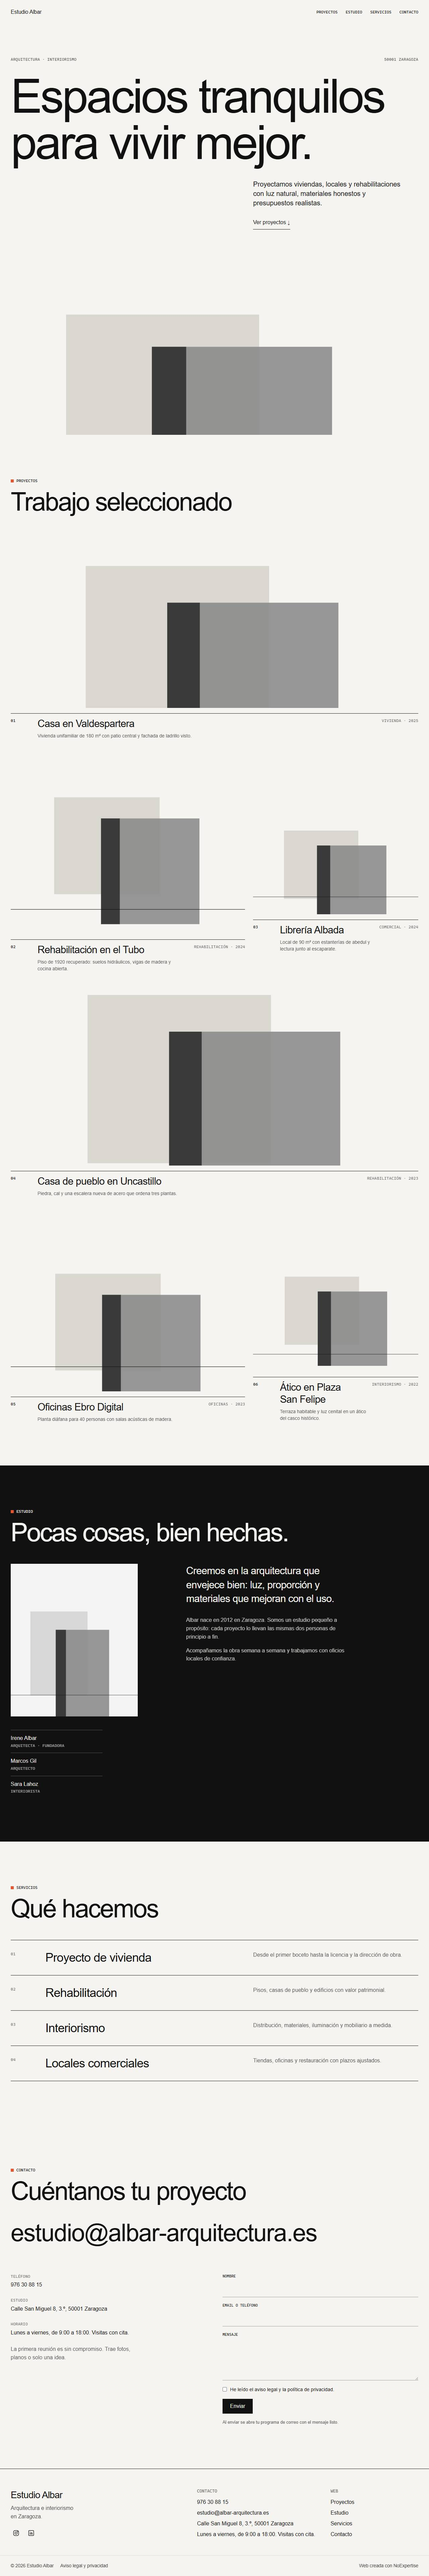
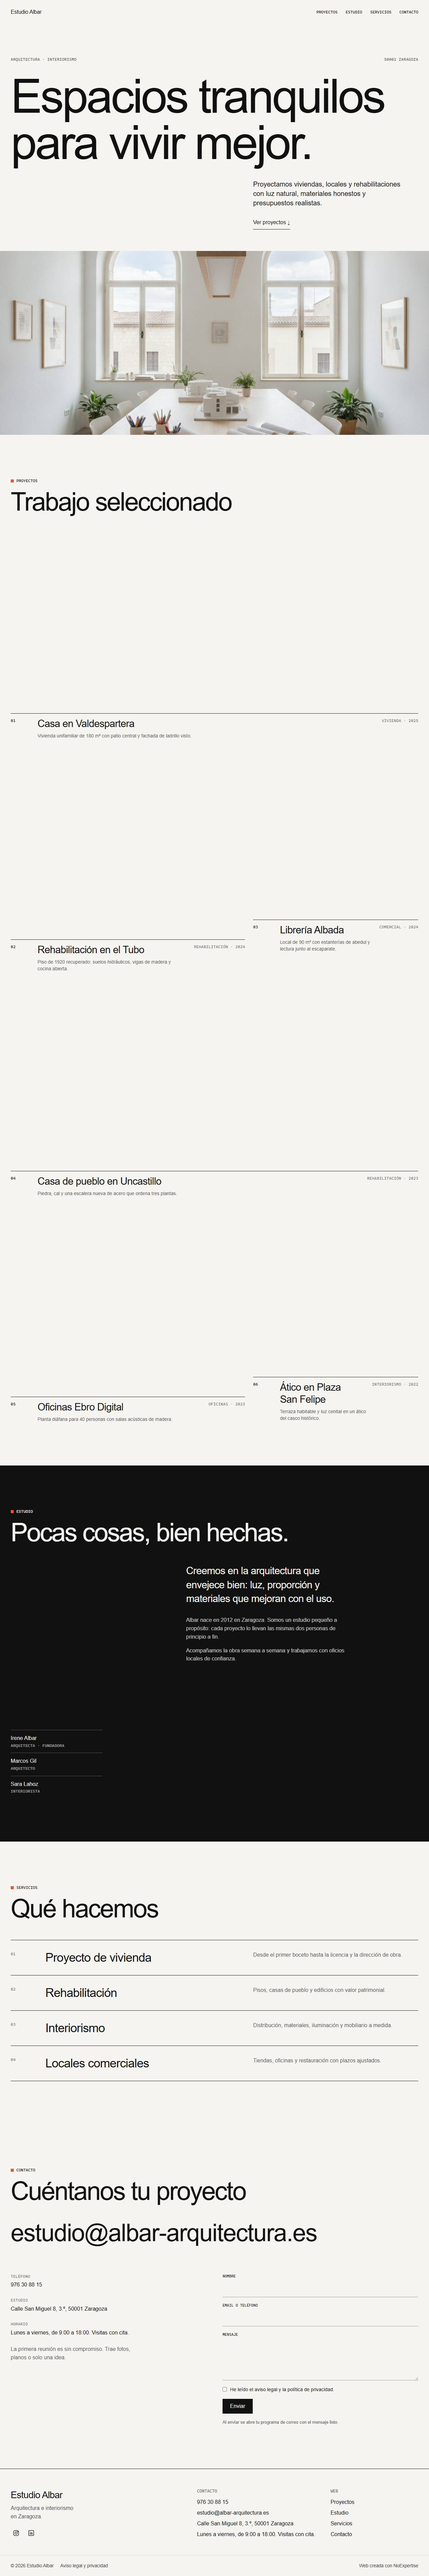
Fotos generadas con IA y previews nuevas (v1.1.0)

diff --git a/CLAUDE.md b/CLAUDE.md
@@ -40,3 +40,5 @@ Antes de dar una orden por buena: `npm run build` sin errores.
 - `proyectos.proyectos[]`: {titulo, texto, imagen, categoria, anio}.
 - `sobre-nosotros.declaracion`: frase grande; `sobre-nosotros.personas` [{nombre, cargo}] como lista de texto.
 - `boton_cabecera` vacío a propósito (estilo minimal).
+
+Fotos de partida en public/fotos/ (generadas con IA, sin derechos de terceros); los SVG de public/placeholders/ siguen de respaldo.
